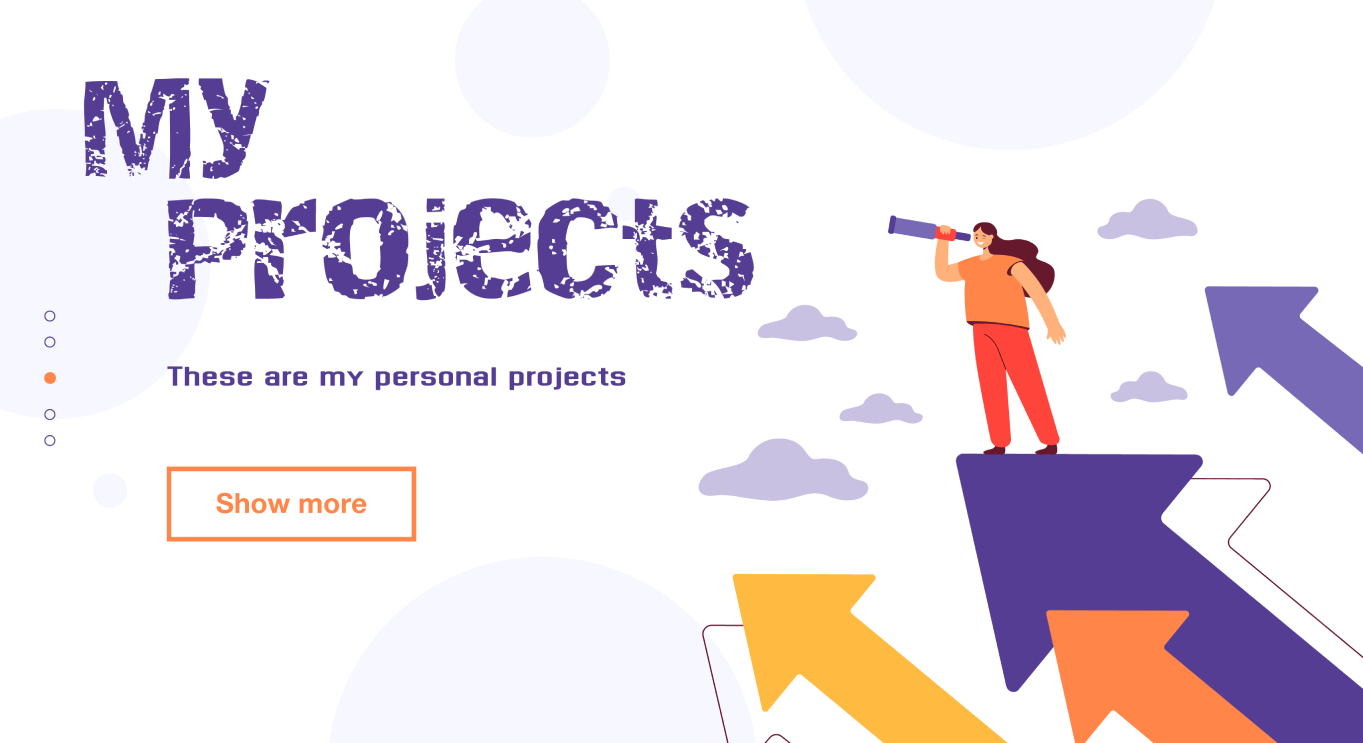
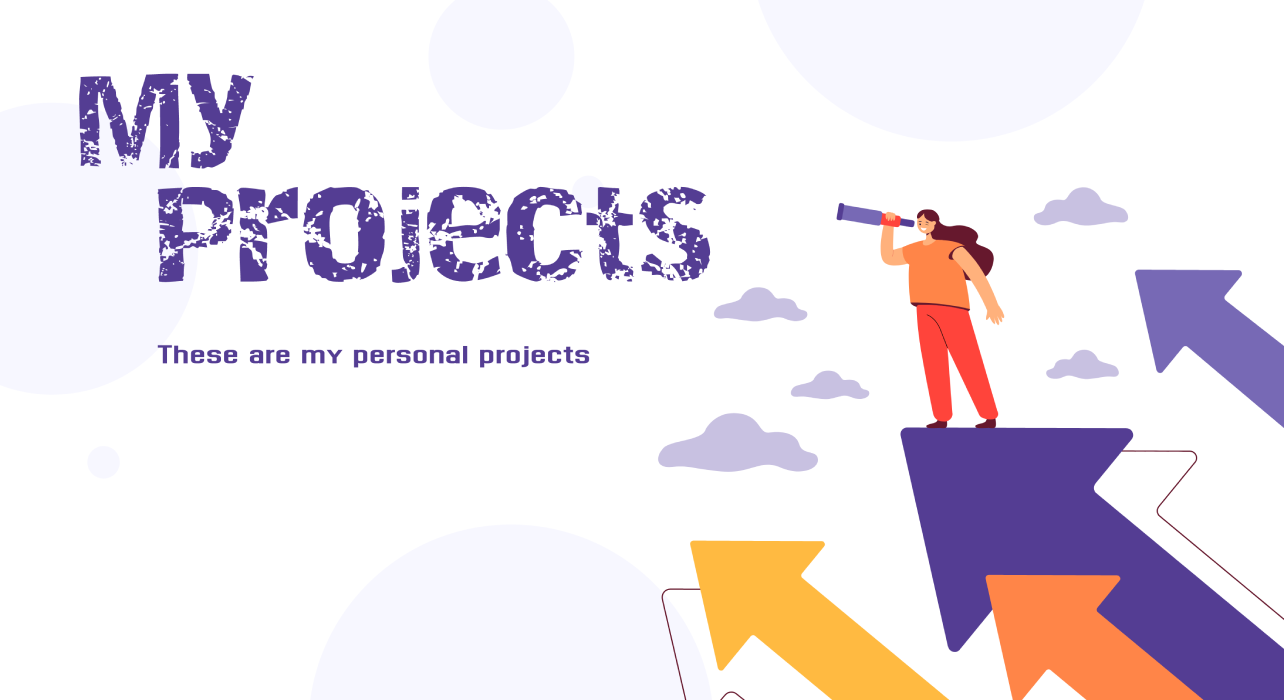
fix slider

diff --git a/src/pages/WorksPage.js b/src/pages/WorksPage.js
@@ -3,57 +3,49 @@ import Bar from "../components/Bar";
 import FootBar from "../components/FootBar";
 import AOS from 'aos';
 import { Slide } from 'react-slideshow-image';
-import { Accordion } from '../components/Accordion/'
+import { Accordion } from '../components/Accordion/';
 import animateScrollTo from 'animated-scroll-to';
 import Button from '../components/Button';
 
-import '../css/accordion.css'
+import '../css/accordion.css';
 import 'react-slideshow-image/dist/styles.css';
 import 'aos/dist/aos.css';
-import "../css/worksPage.css"
-import "../css/container.css"
+import "../css/worksPage.css";
+import "../css/container.css";
 
-import notesImg1 from "../img/projects/user-home.jpg"
-import react from "../img/projects/react.png"
-import nodeJs from "../img/projects/nodejs.svg"
-import javaScript from "../img/projects/javascript.svg"
-import mongoDB from "../img/projects/mongodb.svg"
-import LoginPage from "../img/projects/loginPage.png"
-import HomePage from "../img/projects/homePage.png"
-import NoteTodo from "../img/projects/noteTodo.jpeg"
-import myProjectBanner from "../img/myProjects.png"
-import InternshipBanner from "../img/internshipBanner.jpeg"
+import notesImg1 from "../img/projects/user-home.jpg";
+import react from "../img/projects/react.png";
+import nodeJs from "../img/projects/nodejs.svg";
+import javaScript from "../img/projects/javascript.svg";
+import mongoDB from "../img/projects/mongodb.svg";
+import LoginPage from "../img/projects/loginPage.png";
+import HomePage from "../img/projects/homePage.png";
+import NoteTodo from "../img/projects/noteTodo.jpeg";
+import myProjectBanner from "../img/myProjects.png";
+import InternshipBanner from "../img/internshipBanner.jpeg";
+import MettingBanner from "../img/meeting.jpg";
 
-document.title = "Adarsh Suman | Works"
+document.title = "Adarsh Suman | Works";
 
 AOS.init();
 
 const aosDelay = "50";
 const aosDuration = "1000";
 
-const images = [
-    myProjectBanner,
-    InternshipBanner,
-    "https://images.unsplash.com/photo-1536987333706-fc9adfb10d91?ixlib=rb-1.2.1&ixid=eyJhcHBfaWQiOjEyMDd9&auto=format&fit=crop&w=1500&q=80",
-];
-
 function getWindowDimensions() {
     const { innerWidth: width, innerHeight: height } = window;
-    return {
-        width,
-        height
-    };
+    return { width, height };
 }
 
 function WorksPage() {
 
     function myProject() {
-        if (getWindowDimensions().width > 425 && getWindowDimensions().width <= 750) {
-            return animateScrollTo(600)
-        } else if (getWindowDimensions().width <= 425) {
-            return animateScrollTo(510)
-        } else {
-            return animateScrollTo(630)
+        if (getWindowDimensions().width > 1000) {
+            return animateScrollTo(600);
+        } else if (getWindowDimensions().width <= 1000 && getWindowDimensions().width > 750) {
+            return animateScrollTo(550);
+        } else if (getWindowDimensions().width <= 750) {
+            return animateScrollTo(350);
         }
     }
 
@@ -62,13 +54,19 @@ function WorksPage() {
             <Bar />
             <Slide>
                 <div className="each-slide-effect">
-                    <div onClick={myProject} style={{ 'backgroundImage': `url(${images[0]})` }}></div>
+                    <div className='bannerImg' style={{ 'backgroundImage': `url(${myProjectBanner})` }}>
+                        <span onClick={myProject}>My Projects</span>
+                    </div>
                 </div>
                 <div className="each-slide-effect">
-                    <div style={{ 'backgroundImage': `url(${images[1]})` }}></div>
+                    <div className='bannerImg' style={{ 'backgroundImage': `url(${InternshipBanner})` }}>
+                        <span>Internships</span>
+                    </div>
                 </div>
                 <div className="each-slide-effect">
-                    <div style={{ 'backgroundImage': `url(${images[2]})` }}></div>
+                    <div className='bannerImg' style={{ 'backgroundImage': `url(${MettingBanner})` }}>
+                        <span>Slide 1</span>
+                    </div>
                 </div>
             </Slide>
             <div className="mainTitle">My Works</div>

diff --git a/src/css/worksPage.css b/src/css/worksPage.css
@@ -2,17 +2,36 @@
     margin: 50px 0;
 }
 
-.each-slide-effect>div {
+.bannerImg {
+    display: flex;
+    align-items: flex-end;
+    justify-content: center;
     background-size: cover;
-    width: 100%;
-    height: 500px;
-    color: black;
+    height: 55vh;
+    margin: 0 2.7%;
 }
 
-.default-nav {
+.react-slideshow-container .default-nav {
     margin: 15px;
+    height: 100%;
+    width: 2.7%;
+    background-color: rgba(179, 179, 179, 0.7) !important;
+    margin: unset;
+    border-radius: unset;
 }
 
+.react-slideshow-container .default-nav:hover {
+    background-color: rgba(219, 219, 219, 0.7) !important;
+}
+
+.each-slide-effect span {
+    font-size: 20px;
+    padding: 10px 20px;
+    background: #efefef;
+    text-align: center;
+    border-radius:  5px 5px 0 0;
+    cursor: pointer;
+  }
 /* ...........slider_End............. */
 
 .mainTitle {
@@ -132,6 +151,23 @@
 }
 
 @media screen and (max-width: 770px) {
+    .bannerImg {
+        margin: unset;
+        height: 50vh;
+    }
+
+    .react-slideshow-container .default-nav {
+        width: unset !important;
+        height: 30px;
+        width: 30px !important;
+        border-radius: 50%;
+        margin: 15px;
+    }
+
+    .each-slide-effect span {
+        font-size: 15px;
+    }
+
     .pointSection {
         margin: 30px 0 50px 10px;
     }
@@ -179,9 +215,14 @@
     }
 }
 
+
 @media screen and (max-width: 425px) {
-    .each-slide-effect>div {
-        height: 400px;
+    .react-slideshow-container .default-nav {
+        margin: 10px;
+    }
+
+    .bannerImg {
+        height: 30vh;
     }
 
     .accordionImg {
